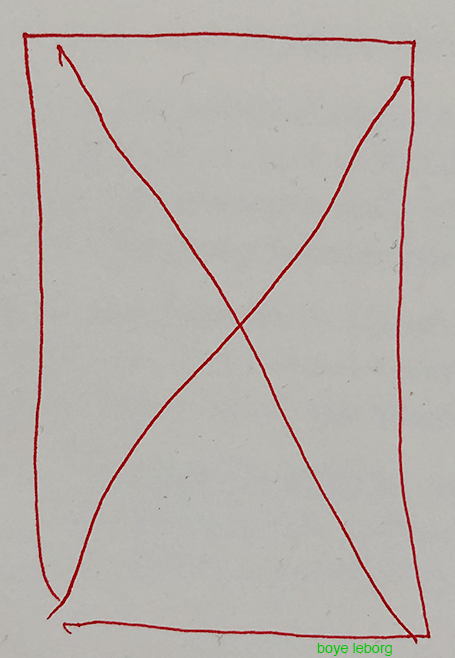
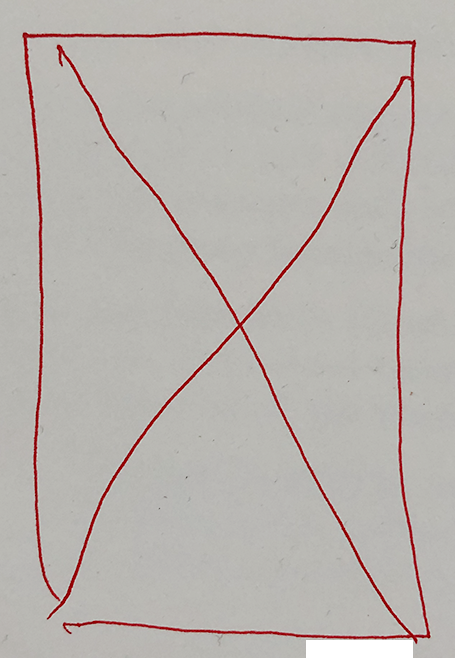
new bg /photos

Changed region(s): [[0.6462, 0.9726, 0.9231, 1.0]]

diff --git a/docs/theexhibition.html b/docs/theexhibition.html
@@ -4,30 +4,48 @@
   <TITLE>placebro</TITLE>
   </HEAD>
   <BODY BGCOLOR="FFFFFF">
-    <H1></H1>
-    <a href="index.html">home</a><br>
-    <H2>the exhibition</H2>
-      <div class="column1">
-        <IMG SRC="resources/theexhibition/overview.png">
-        <IMG SRC="resources/theexhibition/installation_replace.png">
-        <IMG SRC="resources/theexhibition/11.jpg">
-        <IMG SRC="resources/theexhibition/7.jpg">
-        <IMG SRC="resources/theexhibition/8.jpg">
-        <IMG SRC="resources/theexhibition/9.jpg">
-        <IMG SRC="resources/theexhibition/4.jpg">
-        <IMG SRC="resources/theexhibition/5.jpg">
-        <IMG SRC="resources/theexhibition/1.jpg">
-        <IMG SRC="resources/theexhibition/2.jpg">
-        <IMG SRC="resources/theexhibition/3.jpg">
-        <IMG SRC="resources/theexhibition/cardtext.png">
     
-        
-        
+    <a href="index.html">home</a><br>
+    <H2>open</H2>
+      <div class="column1">
+        <IMG SRC="resources/theexhibition/open1.jpg">
+        <br>
+        <br>
+        <br>
+        <IMG SRC="resources/theexhibition/open2.png">
+        <br>
+        <br>
+        <br>
+        <IMG SRC="resources/theexhibition/open3.jpg">
       </div>
 
-  
-  <HR>
 
+    <H2>unfold</H2>
+      <div class="column1">
+      <IMG SRC="resources/theexhibition/1.png">
+      <IMG SRC="resources/theexhibition/2.png">
+      <IMG SRC="resources/theexhibition/3.png">
+      <IMG SRC="resources/theexhibition/4.png">
+      <IMG SRC="resources/theexhibition/5.png">
+      <IMG SRC="resources/theexhibition/6.png">
+      <IMG SRC="resources/theexhibition/7.png">
+      <IMG SRC="resources/theexhibition/8.png">
+      <IMG SRC="resources/theexhibition/8.png">
+      </div>
+
+
+    <H2>return</H2>
+        <div class="column1">
+        <IMG SRC="resources/theexhibition/print1.png">
+        
+        <IMG SRC="resources/theexhibition/print2.png">
+        
+        <IMG SRC="resources/theexhibition/print3.png">
+      
+
+
+  
+  
 
 
  

diff --git a/docs/style.css b/docs/style.css
@@ -1,69 +1,32 @@
 body{
-  background-image: url("resources/index/boyeleborg.png");
+  background-image: url("resources/index/bg.png");
   
   object-fit: cover;
   padding:0;
   margin:0;
 }
- 
 
-div.group1 {
-margin-top: 160px;
 
+h2{
+  margin-left: 100px;
+  margin-top: 50px;
+  color: black;
 }
-div.places {
-  margin-top: -14px;
-  margin-left: 84px;
 
-  p {
-      color: #8ea082;
-      margin-left: 84px;
-      margin-top: 0px;
-  }
+
+
+
+
 div.column1 {
 
-    margin-top: 50px;
+   
     object-fit: cover;
-    padding:5%;
-    margin:20%;
-  }
-
-  a {
-    
-    
-    color: rgb(48, 54, 13);
-    font-size: 30pt;
+    padding: 10%;
    
   }
 
-  b {
-    margin-left: 21px;
-    color: violet;
-  }
 
-  a.home {
-    color:black;
-
-  }
-
-
-
-a.red {
-    color:#898f65;
-    font-family: monospace;
+a {
+    color: rgb(48, 54, 13);
 }
-a.green {
-    color:#898f65;
-    font-family: monospace;
-}
-a.blue {
-    color:#898f65;
-    font-family: monospace;
-}
- div.pages {
-  font-size: 30pt;
-  color:#898f65;
-  font-family: monospace;
-  margin-left: 84px;
-  margin-top: -3px;
-}
+

diff --git a/docs/index.html b/docs/index.html
@@ -3,34 +3,23 @@
   <link rel="stylesheet" href="style.css">
   <TITLE>placebro</TITLE>
   </HEAD>
-    <div class="pages">
-    PAGES:
-    </div>
-  <div class="group1">
+  <h2>work:</h2>
 
+
+  <div class="links">
     
-
-    <div class="places">
-      <a class="red" href="maxmsp.html">maxmsp</a>
-    </div><br>
-
-    <div class="places">
-      <a class="green" href="recordingsystem.html">recording system</a>
-    </div><br>
-
-    <div class="places">
-      <a class="blue" href="theexhibition.html">the exhibition</a>
-    </div><br>
-
-    <div class="places">
-      <a class="red" href="walking-mechanism.html">walking-mechanism</a>
-    </div><br>
-
-    <div class="places">
-      <a class="green" href="other.html">other</a>
-    </div>
-
+    <br>
+    <a href="theexhibition.html">a design process</a>
+    <br>
+    <br>
+    <a href="walking-mechanism.html">a walking-mechanism</a>
+    <br>
+    <br>
+    <a href="recordingsystem.html">a recording system</a>    
   </div>
+    
+   
+  
 
 
 

diff --git a/docs/walking-mechanism.html b/docs/walking-mechanism.html
@@ -7,19 +7,15 @@
     <H1></H1>
     <a class="home" href="index.html">home</a>
     <H2>walking-mechanism</H2>
-    
-  <br>
-  <br>  
-  <br>
-  <br>  
-  <br>
-  <br>  
-  <a href="https://www.youtube.com/watch?v=qWBM7K8ZktQ">https://www.youtube.com/watch?v=qWBM7K8ZktQ
-  <IMG SRC="resources/walking-mechanism/walker.gif" ID=gif>
-  <IMG SRC="resources/walking-mechanism/vid1.gif" ID=gif>
-  <IMG SRC="resources/walking-mechanism/vid2.gif" ID=gif> 
-  <IMG SRC="resources/walking-mechanism/2.png"> 
-  <IMG SRC="resources/walking-mechanism/1.png"> 
+
+    <div class="column1"></div>
+    <IMG SRC="resources/walking-mechanism/walker1.png"> 
+    <IMG SRC="resources/walking-mechanism/2.png"> 
+
+    <IMG SRC="resources/walking-mechanism/walker_lowres2.gif" ID=gif>
+    <IMG SRC="resources/walking-mechanism/vid1.gif" ID=gif>
+    <IMG SRC="resources/walking-mechanism/vid2.gif" ID=gif> 
+    </div>
   
 
   <br>

diff --git a/docs/style_backup1.css b/docs/style_backup1.css
@@ -7,7 +7,7 @@ body{
 }
  
 
-  div.group1 {
+div.group1 {
 margin-top: 160px;
 
 }
@@ -15,16 +15,16 @@ div.places {
   margin-top: 4px;
   margin-left: 84px;
 }
-  h2 {
+H2 {
     color: forestgreen;
     margin-left: 21px;
   }
-  p {
+p {
       color: #8ea082;
       margin-left: 84px;
       margin-top: 0px;
   }
-  div.column1 {
+div.column1 {
     max-width: 1000px;
     margin-top: 50px;
     object-fit: scale-down;
